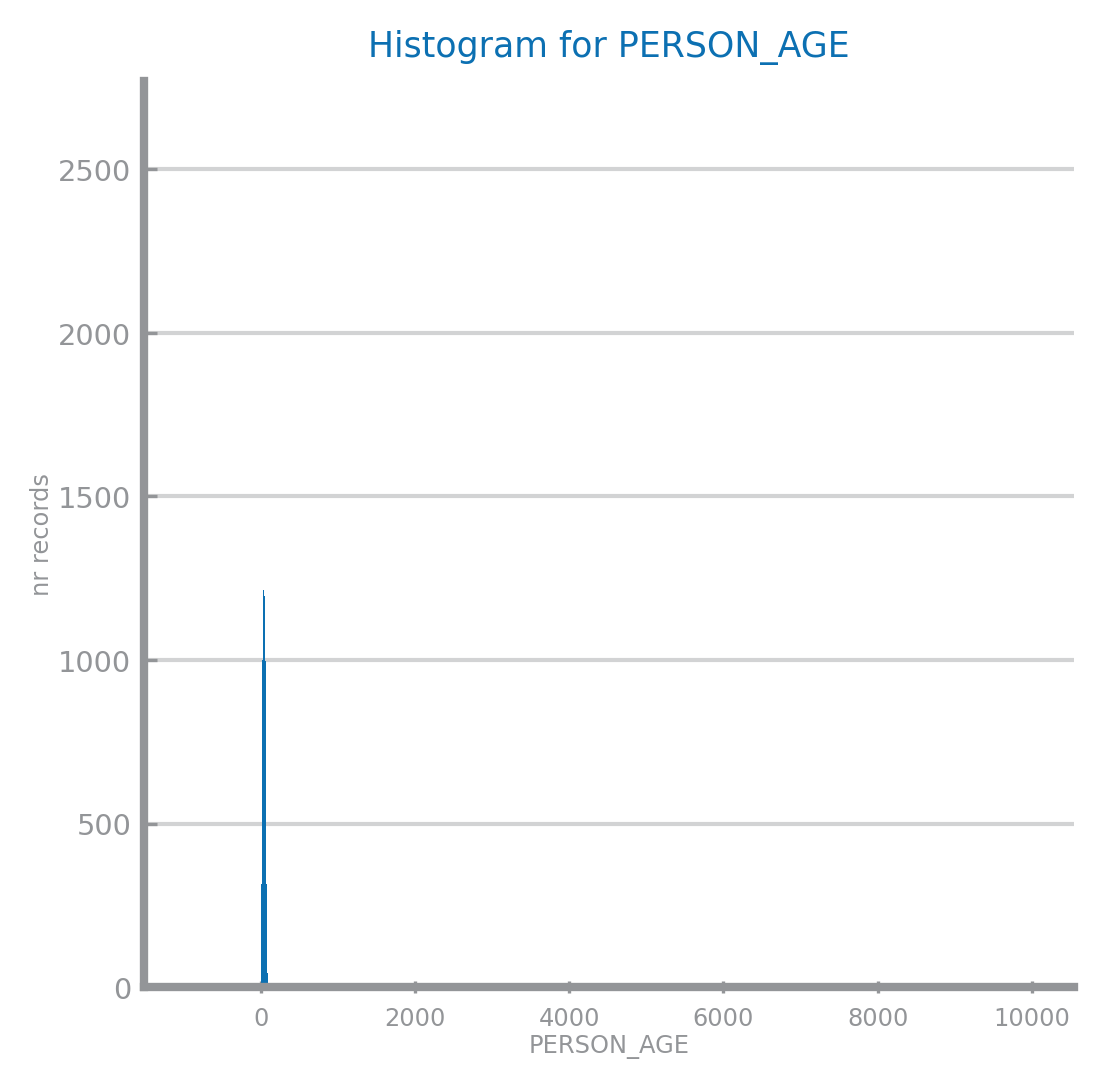
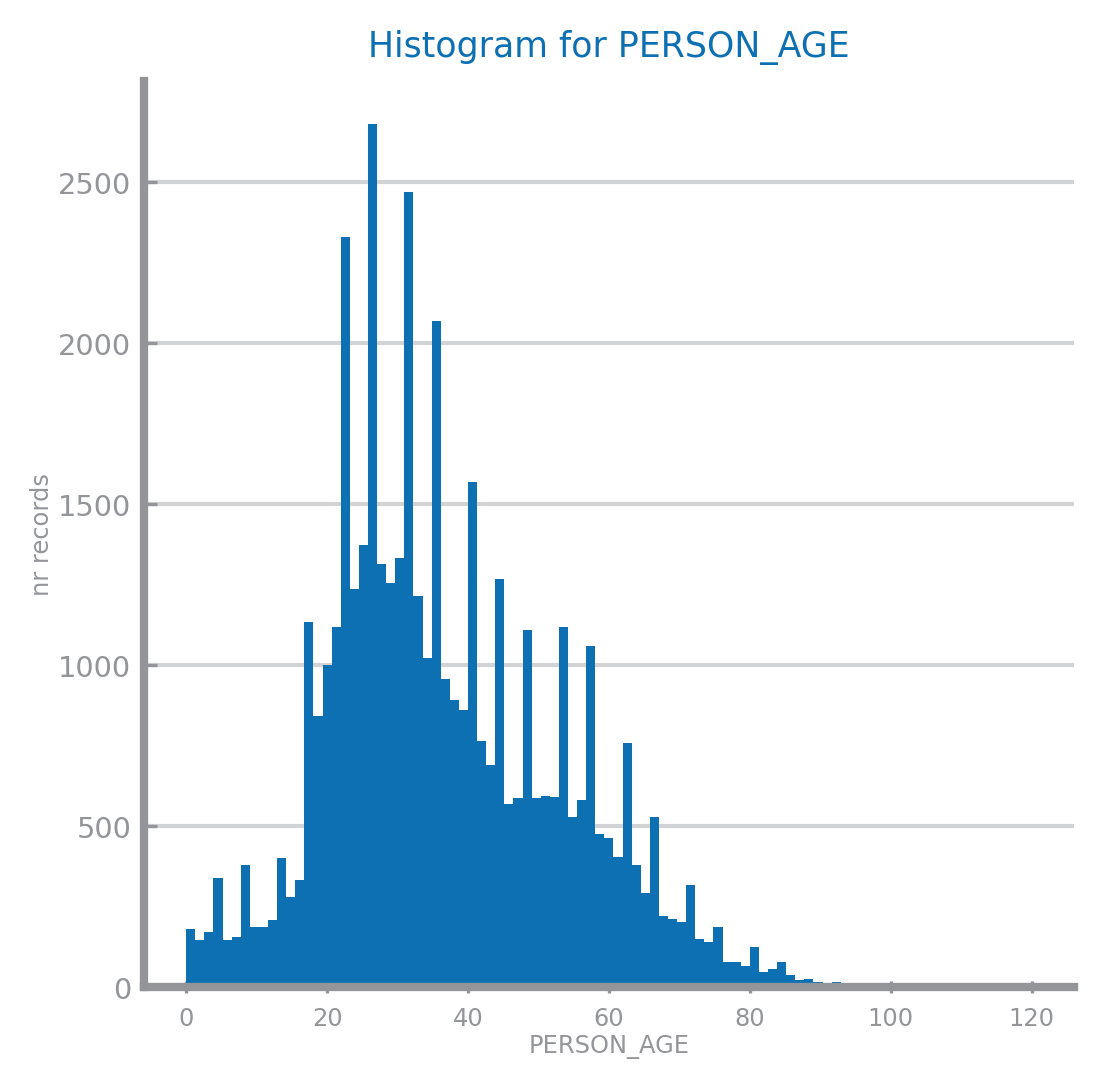
Removed noise from age and remade charts for nyc.

diff --git a/data_distribution.py b/data_distribution.py
@@ -12,8 +12,9 @@ COLLISIONS_FILE = "data/NYC_collisions_tabular.csv"
 
 register_matplotlib_converters()
 
-air_data = pd.read_csv(AIR_QUALITY_FILE, index_col="FID", parse_dates=True, infer_datetime_format=True)
-collisions_data = pd.read_csv(COLLISIONS_FILE, index_col="COLLISION_ID", parse_dates=True, infer_datetime_format=True).drop(["UNIQUE_ID", "VEHICLE_ID"], axis=1)
+air_data = pd.read_csv(AIR_QUALITY_FILE, index_col="FID", parse_dates=True, na_values='', infer_datetime_format=True)
+collisions_data = pd.read_csv(COLLISIONS_FILE, index_col="COLLISION_ID", na_values='', parse_dates=True, infer_datetime_format=True).drop(["UNIQUE_ID", "VEHICLE_ID"], axis=1)
+collisions_data.loc[(collisions_data['PERSON_AGE'] < 0) | (collisions_data['PERSON_AGE'] > 130), "PERSON_AGE"] = np.nan
 # %%
 """
 ---------- FIVE-NUMBER SUMMARY ----------
@@ -143,46 +144,60 @@ def histogram_with_trend(data, path):
 histogram_with_trend(air_data, "images/lab1/distribution/air_quality_histograms_trend.png")
 # %%
 histogram_with_trend(collisions_data, "images/lab1/distribution/nyc_crashes_histograms_trend.png")
-##%%
-#def compute_known_distributions(x_values: list) -> dict:
-#    #? Devemos experimentar mais distribuicoes?
-#    distributions = dict()
-#    # Gaussian
-#    mean, sigma = norm.fit(x_values)
-#    distributions['Normal(%.1f,%.2f)'%(mean,sigma)] = norm.pdf(x_values, mean, sigma)
-#    # Exponential
-#    loc, scale = expon.fit(x_values)
-#    distributions['Exp(%.2f)'%(1/scale)] = expon.pdf(x_values, loc, scale)
-#    # LogNorm
-#    sigma, loc, scale = lognorm.fit(x_values)
-#    distributions['LogNor(%.1f,%.2f)'%(np.log(scale),sigma)] = lognorm.pdf(x_values, sigma, loc, scale)
-#    return distributions
-#
-#def histogram_with_distributions(ax: plt.Axes, series: pd.Series, var: str):
-#    values = series.sort_values().values
-#    ax.hist(values, 20, density=True)
-#    distributions = compute_known_distributions(values)
-#    multiple_line_chart(values, distributions, ax=ax, title='Best fit for %s'%var, xlabel=var, ylabel='')
-#
-#def fit_distributions(data, path):
-#
-#    numeric_vars = get_variable_types(data)['Numeric']
-#    if [] == numeric_vars:
-#        raise ValueError('There are no numeric variables.')
-#
-#    rows, cols = choose_grid(len(numeric_vars))
-#    fig, axs = plt.subplots(rows, cols, figsize=(cols*HEIGHT, rows*HEIGHT), squeeze=False)
-#    i, j = 0, 0
-#    for n in range(len(numeric_vars)):
-#        histogram_with_distributions(axs[i, j], data[numeric_vars[n]].dropna(), numeric_vars[n])
-#        i, j = (i + 1, 0) if (n+1) % cols == 0 else (i, j + 1)
-#    plt.savefig(path, dpi=300, bbox_inches='tight', format='png')
-#    plt.show()
-#
-## %%
-#fit_distributions(air_data, "images/lab1/distribution/air_quality_histograms_fits.png")
-## %%
-#fit_distributions(collisions_data, "images/lab1/distribution/nyc_crashes_histograms_fits.png")
+#%%
+def compute_known_distributions(x_values: list) -> dict:
+    distributions = dict()
+    # Gaussian
+    mean, sigma = norm.fit(x_values)
+    distributions['Normal(%.1f,%.2f)'%(mean,sigma)] = norm.pdf(x_values, mean, sigma)
+    # Exponential
+    loc, scale = expon.fit(x_values)
+    distributions['Exp(%.2f)'%(1/scale)] = expon.pdf(x_values, loc, scale)
+    # LogNorm
+    sigma, loc, scale = lognorm.fit(x_values)
+    distributions['LogNor(%.1f,%.2f)'%(np.log(scale),sigma)] = lognorm.pdf(x_values, sigma, loc, scale)
+    return distributions
+
+def histogram_with_distributions(ax: plt.Axes, series: pd.Series, var: str):
+    values = series.sort_values().values
+    ax.hist(values, 20, density=True)
+    print("--- Computing Distributions ---")
+    distributions = compute_known_distributions(values)
+    print("--- Plotting ---")
+    multiple_line_chart(values, distributions, ax=ax, title='Best fit for %s'%var, xlabel=var, ylabel='')
+    print("--- Plotting Ended ---")
+
+def fit_distributions(data, path):
+    numeric_vars = get_variable_types(data)['Numeric']
+    if [] == numeric_vars:
+        raise ValueError('There are no numeric variables.')
+
+    splits = np.array_split(numeric_vars, 26)
+
+    k = 0
+
+    for split in splits:
+        file = path + "_{}".format(k) + ".png"
+        k += 1
+        
+        print("- Starting Split -")
+        rows, cols = choose_grid(len(split))
+        fig, axs = plt.subplots(rows, cols, figsize=(cols * HEIGHT, rows * HEIGHT), squeeze=False)
+        i, j = 0, 0
+        for n in range(len(split)):
+            histogram_with_distributions(axs[i, j], data[split[n]].dropna(), split[n])
+            i, j = (i + 1, 0) if (n+1) % cols == 0 else (i, j + 1)
+        print("-- Saving Fig --")
+        plt.savefig(file, bbox_inches='tight')
+        print("-- Fig Saved --")
+        del fig
+        print("-- Fig deleted --")
+        print("- Ending Split -")
+
+# %%
+fit_distributions(air_data, "images/lab1/distribution/air_quality_histograms_fits")
+# %%
+fit_distributions(collisions_data, "images/lab1/distribution/nyc_crashes_histograms_fits")
 #%%
 """
 ---------- SYMBOLIC VARIABLES ----------
